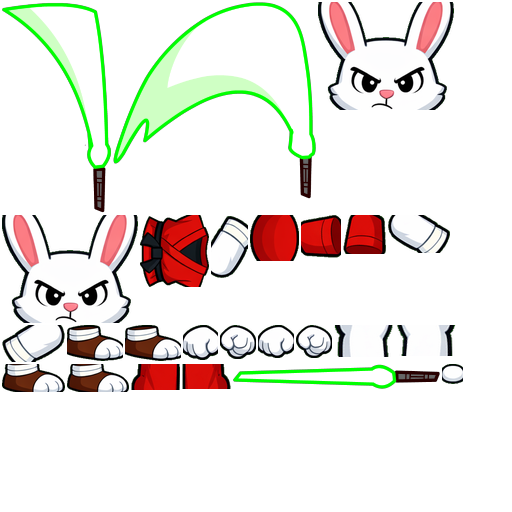
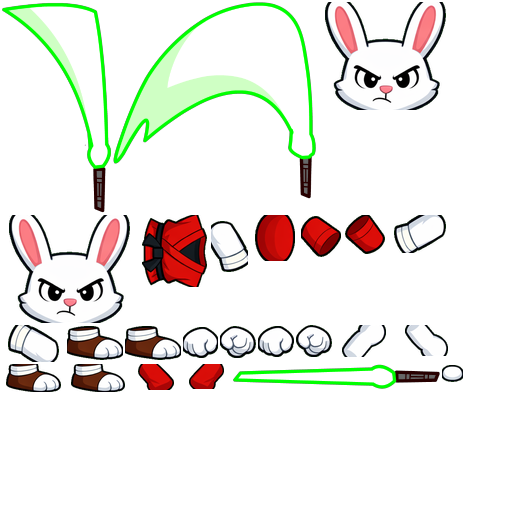
[ts] Improve rabbit skin orientation using dummy atlas reference map
Replace hardcoded orientation heuristics with per-region orientation
correction driven by an orientation map extracted from the dummy atlas.
Uses aspect ratio matching against target regions and balanced
(geometric mean) scaling for better region coverage.

Changed region(s): [[0.0, 0.4062, 0.9062, 0.7812], [0.5938, 0.0, 0.9062, 0.2188]]

diff --git a/spine-ts/spine-webgl/demos/tools/rabbit_to_skin.py b/spine-ts/spine-webgl/demos/tools/rabbit_to_skin.py
@@ -115,18 +115,46 @@ def find_blobs(rgba: Image.Image, min_pixels: int = 100):
 # Part orientation correction (improved from panda_to_skin)
 # ---------------------------------------------------------------------------
 
-EXPECTED_ORIENTATION = {
-    "arm_upper": "horizontal",
-    "arm_lower": "horizontal",
-    "hand": None,
-    "leg_upper": "horizontal",
-    "leg_lower": "vertical",
-    "foot": None,
-    "head": None,
-    "torso": None,
-    "waist": None,
-    "neck": None,
+def load_orientation_map(path: str) -> dict:
+    """Load orientation map from a TSV text file.
+
+    Returns a dict keyed by part name, with values containing
+    pca_angle, aspect_ratio, wider_than_tall.
+    """
+    omap = {}
+    with open(path) as f:
+        for line in f:
+            line = line.strip()
+            if not line or line.startswith("#"):
+                continue
+            parts = line.split("\t")
+            if len(parts) < 4:
+                continue
+            name = parts[0]
+            omap[name] = {
+                "pca_angle": float(parts[1]),
+                "aspect_ratio": float(parts[2]),
+                "wider_than_tall": parts[3] == "true",
+            }
+    return omap
+
+
+# Mapping from Assassin-specific hand region names to Dummy region names
+_HAND_FALLBACK = {
+    "hand_near_1_fistBack": "hand_1_fistBack",
+    "hand_near_2_fistPalm": "hand_2_fistPalm",
+    "hand_far_1_fistBack": "hand_1_fistBack",
+    "hand_far_2_fistPalm": "hand_2_fistPalm",
 }
+
+
+def _lookup_orientation(region_suffix: str, orientation_map: dict) -> dict | None:
+    """Look up a region suffix in the orientation map, with fallbacks."""
+    if region_suffix in orientation_map:
+        return orientation_map[region_suffix]
+    if region_suffix in _HAND_FALLBACK:
+        return orientation_map.get(_HAND_FALLBACK[region_suffix])
+    return None
 
 
 def get_blob_angle(img: Image.Image) -> float:
@@ -163,50 +191,49 @@ def _crop_tight(img: Image.Image) -> Image.Image:
     return img.crop((x0, y0, x1, y1))
 
 
-def orient_part(img: Image.Image, part_name: str) -> Image.Image:
-    """Rotate a body part image to match the expected bone-local orientation.
+def orient_part(img: Image.Image, region_suffix: str, orientation_map: dict,
+                region: AtlasRegion = None) -> Image.Image:
+    """Rotate a body part image to match the reference orientation from the dummy atlas.
 
-    Includes post-rotation aspect ratio guard to handle PCA ambiguity on
-    nearly-square blobs.
+    Strategy:
+    - For nearly-square reference parts (head, waist, neck), skip entirely.
+    - Check if a 90° rotation would make the part better fill the target region.
+      If so, rotate 90°. Otherwise keep as-is to avoid unnecessary distortion.
     """
-    category = None
-    for cat in EXPECTED_ORIENTATION:
-        if part_name.startswith(cat) or part_name == cat:
-            category = cat
-            break
-
-    if category is None or EXPECTED_ORIENTATION[category] is None:
+    ref = _lookup_orientation(region_suffix, orientation_map)
+    if ref is None:
         return img
 
-    expected = EXPECTED_ORIENTATION[category]
-    current_angle = get_blob_angle(img)
+    target_ar = ref["aspect_ratio"]
 
-    if expected == "horizontal":
-        rotation = -current_angle
-    elif expected == "vertical":
-        if current_angle > 0:
-            rotation = 90 - current_angle
-        else:
-            rotation = -90 - current_angle
-
-    if abs(rotation) < 5:
+    # For nearly-square reference parts (head, waist, neck), skip entirely
+    if abs(target_ar - 1.0) < 0.15:
         return img
 
-    rotated = img.rotate(rotation, resample=Image.BICUBIC, expand=True)
-    cropped = _crop_tight(rotated)
+    target_wider = ref["wider_than_tall"]
+    w, h = img.size
 
-    # Post-rotation aspect ratio guard: verify the result matches expectation
-    w, h = cropped.size
-    if expected == "horizontal" and h > w:
-        # Should be wider than tall but isn't — rotate 90°
-        cropped = cropped.rotate(90, resample=Image.BICUBIC, expand=True)
-        cropped = _crop_tight(cropped)
-    elif expected == "vertical" and w > h:
-        # Should be taller than wide but isn't — rotate 90°
-        cropped = cropped.rotate(90, resample=Image.BICUBIC, expand=True)
-        cropped = _crop_tight(cropped)
+    # Check if rotating 90° would better fill the target region.
+    # Compare how well the current vs rotated aspect ratio matches the region.
+    if region is not None:
+        region_ar = region.width / region.height if region.height > 0 else 1.0
+        current_ar = w / h if h > 0 else 1.0
+        rotated_ar = h / w if w > 0 else 1.0
+        # Pick whichever is closer to the region's aspect ratio
+        current_match = abs(math.log(current_ar / region_ar)) if region_ar > 0 and current_ar > 0 else 999
+        rotated_match = abs(math.log(rotated_ar / region_ar)) if region_ar > 0 and rotated_ar > 0 else 999
 
-    return cropped
+        if rotated_match < current_match - 0.1:  # margin to avoid unnecessary rotation
+            result = img.rotate(90, resample=Image.BICUBIC, expand=True)
+            return _crop_tight(result)
+
+    # Fallback: if no region provided, use wider_than_tall check
+    is_wider = w > h
+    if is_wider != target_wider:
+        result = img.rotate(90, resample=Image.BICUBIC, expand=True)
+        return _crop_tight(result)
+
+    return img
 
 
 # ---------------------------------------------------------------------------
@@ -357,7 +384,12 @@ REGION_TO_PART = {
 # ---------------------------------------------------------------------------
 
 def fit_to_region(img: Image.Image, region: AtlasRegion) -> Image.Image:
-    """Resize img to fit atlas region bounds, apply rotation and PMA."""
+    """Resize img to fit atlas region bounds, apply rotation and PMA.
+
+    Uses a balanced scaling strategy: scales between FIT and FILL using their
+    geometric mean, then center-crops to the target size. This keeps most of
+    the part visible while still filling the region reasonably well.
+    """
     target_w = region.width
     target_h = region.height
 
@@ -365,17 +397,23 @@ def fit_to_region(img: Image.Image, region: AtlasRegion) -> Image.Image:
     if src_w == 0 or src_h == 0:
         return Image.new("RGBA", (target_w, target_h), (0, 0, 0, 0))
 
-    # Scale to FILL the region (may overflow), then center-crop
-    scale = max(target_w / src_w, target_h / src_h)
+    fit_scale = min(target_w / src_w, target_h / src_h)
+    fill_scale = max(target_w / src_w, target_h / src_h)
+
+    # Use geometric mean of FIT and FILL for a balanced result
+    scale = math.sqrt(fit_scale * fill_scale)
     new_w = max(1, int(src_w * scale))
     new_h = max(1, int(src_h * scale))
 
     resized = img.resize((new_w, new_h), Image.LANCZOS)
 
-    # Center-crop to target size
-    crop_x = (new_w - target_w) // 2
-    crop_y = (new_h - target_h) // 2
-    canvas = resized.crop((crop_x, crop_y, crop_x + target_w, crop_y + target_h))
+    # Center-crop to target size (may clip slightly on the overflow axis)
+    canvas = Image.new("RGBA", (target_w, target_h), (0, 0, 0, 0))
+    paste_x = (target_w - new_w) // 2
+    paste_y = (target_h - new_h) // 2
+    canvas.paste(resized, (paste_x, paste_y))
+    # Crop canvas to exact target size (handles overflow)
+    canvas = canvas.crop((0, 0, target_w, target_h))
 
     if region.rotate == 90:
         canvas = canvas.transpose(Image.ROTATE_270)
@@ -399,6 +437,8 @@ def main():
     parser.add_argument("--output", type=str, default="color-block-rabbit/assassin.png", help="Output atlas PNG")
     parser.add_argument("--atlas", type=str, default="color-block-rabbit/assassin.atlas", help="Atlas file")
     parser.add_argument("--tolerance", type=int, default=40, help="Background flood-fill color tolerance")
+    parser.add_argument("--orientation-map", type=str, default="dummy/orientation_map.txt",
+                        help="Orientation map file (from extract_orientation_map.py)")
     parser.add_argument("--debug", action="store_true", help="Save debug images")
     args = parser.parse_args()
 
@@ -406,6 +446,12 @@ def main():
     input_path = script_dir / args.input
     output_path = script_dir / args.output
     atlas_path = script_dir / args.atlas
+    omap_path = script_dir / args.orientation_map
+
+    # Load orientation map
+    print(f"Loading orientation map: {omap_path}")
+    orientation_map = load_orientation_map(str(omap_path))
+    print(f"  Loaded {len(orientation_map)} entries")
 
     # Step 1: Load and remove background
     print(f"Loading {input_path}...")
@@ -439,19 +485,6 @@ def main():
         for name, crop in body_parts.items():
             crop.save(debug_dir / f"03_part_{name}.png")
 
-    # Step 3b: Orient parts to match bone-local expected orientation
-    print("Orienting parts...")
-    for name in list(body_parts.keys()):
-        original = body_parts[name]
-        oriented = orient_part(original, name)
-        if oriented is not original:
-            print(f"  Rotated {name}: {original.size} -> {oriented.size}")
-            body_parts[name] = oriented
-
-    if args.debug:
-        for name, crop in body_parts.items():
-            crop.save(debug_dir / f"03b_oriented_{name}.png")
-
     # Step 4: Parse atlas and composite
     print(f"Parsing atlas: {atlas_path}")
     pages, atlas_regions = parse_atlas(str(atlas_path))
@@ -475,6 +508,7 @@ def main():
 
     mapped = 0
     unmapped = []
+    print("Orienting and compositing parts...")
     for region_suffix, region in skin_regions.items():
         part_key = REGION_TO_PART.get(region_suffix)
         if part_key is None or part_key not in body_parts:
@@ -482,7 +516,16 @@ def main():
             continue
 
         part_img = body_parts[part_key]
-        fitted = fit_to_region(part_img, region)
+
+        # Orient per-region using the orientation map and target region dimensions
+        oriented = orient_part(part_img, region_suffix, orientation_map, region=region)
+        if oriented is not part_img:
+            print(f"  Oriented {region_suffix}: {part_img.size} -> {oriented.size}")
+
+        if args.debug:
+            oriented.save(debug_dir / f"03b_oriented_{region_suffix}.png")
+
+        fitted = fit_to_region(oriented, region)
 
         phys_w = region.height if region.rotate == 90 else region.width
         phys_h = region.width if region.rotate == 90 else region.height

diff --git a/spine-ts/spine-webgl/demos/tools/extract_orientation_map.py b/spine-ts/spine-webgl/demos/tools/extract_orientation_map.py
@@ -1,0 +1,125 @@
+#!/usr/bin/env python3
+"""
+Extract orientation data from the dummy atlas to produce an orientation map.
+
+Reads dummy/dummy.atlas + dummy/dummy.png, extracts each Dummy region,
+un-rotates if needed, measures PCA angle and aspect ratio, and writes
+dummy/orientation_map.txt for use by rabbit_to_skin.py.
+
+Usage:
+    python extract_orientation_map.py
+    python extract_orientation_map.py --atlas dummy/dummy.atlas --png dummy/dummy.png --output dummy/orientation_map.txt
+"""
+
+import argparse
+import math
+from pathlib import Path
+
+import numpy as np
+from PIL import Image
+
+from generate_skin import parse_atlas
+
+
+def get_blob_angle(img: Image.Image) -> float:
+    """Compute the angle of the principal axis of non-transparent pixels."""
+    arr = np.array(img)
+    alpha = arr[:, :, 3]
+    ys, xs = np.where(alpha > 10)
+
+    if len(xs) < 10:
+        return 0.0
+
+    cx = xs.mean()
+    cy = ys.mean()
+    dx = xs - cx
+    dy = ys - cy
+
+    cov_xx = (dx * dx).mean()
+    cov_yy = (dy * dy).mean()
+    cov_xy = (dx * dy).mean()
+
+    angle = 0.5 * math.atan2(2 * cov_xy, cov_xx - cov_yy)
+    return math.degrees(angle)
+
+
+def main():
+    parser = argparse.ArgumentParser(description="Extract orientation map from dummy atlas")
+    parser.add_argument("--atlas", type=str, default="dummy/dummy.atlas")
+    parser.add_argument("--png", type=str, default="dummy/dummy.png")
+    parser.add_argument("--output", type=str, default="dummy/orientation_map.txt")
+    args = parser.parse_args()
+
+    script_dir = Path(__file__).resolve().parent
+    atlas_path = script_dir / args.atlas
+    png_path = script_dir / args.png
+    output_path = script_dir / args.output
+
+    # Parse atlas
+    pages, regions = parse_atlas(str(atlas_path))
+    print(f"Parsed {len(regions)} regions from {atlas_path}")
+
+    # Open atlas image
+    atlas_img = Image.open(png_path).convert("RGBA")
+    print(f"Atlas image: {atlas_img.size}")
+
+    prefix = "Dummy/Dummy_"
+    entries = []
+
+    for region_name, region in sorted(regions.items()):
+        if not region_name.startswith(prefix):
+            continue
+
+        suffix = region_name[len(prefix):]
+
+        # In Spine atlas format, bounds width/height are the LOGICAL (original) dims.
+        # When rotate:90, the physical area on the PNG is swapped: phys_w=height, phys_h=width.
+        if region.rotate == 90:
+            phys_w = region.height
+            phys_h = region.width
+        else:
+            phys_w = region.width
+            phys_h = region.height
+
+        crop = atlas_img.crop((region.x, region.y, region.x + phys_w, region.y + phys_h))
+
+        # Un-rotate to get logical orientation
+        if region.rotate == 90:
+            # Spine atlas rotate:90 means the region was rotated 90° CW for packing
+            # To get back to logical orientation, rotate 90° CCW
+            crop = crop.transpose(Image.ROTATE_90)
+
+        # Now crop is in logical orientation
+        logical_w, logical_h = crop.size
+        aspect_ratio = logical_w / logical_h if logical_h > 0 else 1.0
+        wider_than_tall = logical_w > logical_h
+
+        # Compute PCA angle
+        pca_angle = get_blob_angle(crop)
+
+        entries.append({
+            "name": suffix,
+            "pca_angle": pca_angle,
+            "aspect_ratio": aspect_ratio,
+            "wider_than_tall": wider_than_tall,
+            "logical_w": logical_w,
+            "logical_h": logical_h,
+        })
+
+        print(f"  {suffix:30s}  angle={pca_angle:6.1f}  ar={aspect_ratio:.2f}  "
+              f"{'W>H' if wider_than_tall else 'H>W'}  {logical_w}x{logical_h}")
+
+    # Write output
+    with open(output_path, "w") as f:
+        f.write("# Orientation map extracted from dummy atlas\n")
+        f.write("# part_name\tpca_angle\taspect_ratio\twider_than_tall\tlogical_w\tlogical_h\n")
+        for e in entries:
+            f.write(f"{e['name']}\t{e['pca_angle']:.1f}\t{e['aspect_ratio']:.3f}\t"
+                    f"{'true' if e['wider_than_tall'] else 'false'}\t"
+                    f"{e['logical_w']}\t{e['logical_h']}\n")
+
+    print(f"\nWrote {len(entries)} entries to {output_path}")
+
+
+if __name__ == "__main__":
+    main()
